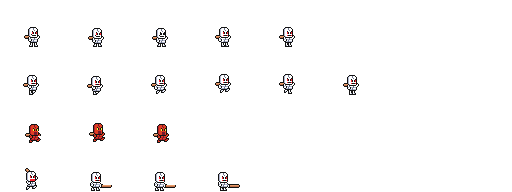
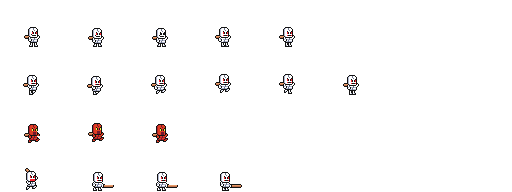
improved player punch charge animation

diff --git a/src/features/Battle/hooks/useBattleSetup.ts b/src/features/Battle/hooks/useBattleSetup.ts
@@ -1,81 +1,93 @@
-import { useEffect } from 'react';
-import useCharacterAnimation, { AnimationStateType } from '../../Battle/hooks/useCharacterAnimation';
+import { ChangeEvent, useCallback, useEffect } from 'react';
+import useCharacterAnimation, {
+	AnimationStateType,
+} from '../../Battle/hooks/useCharacterAnimation';
 import { useBattleEngine } from './useBattleEngine';
 import { defaultBattleSequence } from '../../Battle/battleEngine/scenes/default/defaultSequence';
 import { parsePlayerAvatar } from '../../Battle/utils/parsePlayerAvatar';
+import { Quest } from '../../Subjects/components/Pages/Quest/QuestsPage';
 
 export const useBattleSetup = () => {
-  // Character setup
-  const playerProfileAvatarUrl = 'default/default_1.png';
-  const { playerClass, playerSkin } = parsePlayerAvatar(playerProfileAvatarUrl);
+	// Character setup
+	const playerProfileAvatarUrl = 'default/default_1.png';
+	const { playerClass, playerSkin } = parsePlayerAvatar(
+		playerProfileAvatarUrl
+	);
 
-  // Player animation
-  const {
-    getAnimationParams: getPlayerAnimation,
-    setCurrentAction: setPlayerCurrentAction,
-  } = useCharacterAnimation('player', playerClass, playerSkin);
+	// Player animation
+	const {
+		getAnimationParams: getPlayerAnimation,
+		setCurrentAction: setPlayerCurrentAction,
+	} = useCharacterAnimation('player', playerClass, playerSkin);
 
-  // Enemy animation
-  const {
-    getAnimationParams: getEnemyAnimation,
-    setCurrentAction: setEnemyCurrentAction,
-  } = useCharacterAnimation('orc');
+	// Enemy animation
+	const {
+		getAnimationParams: getEnemyAnimation,
+		setCurrentAction: setEnemyCurrentAction,
+	} = useCharacterAnimation('skeleton');
 
-  // Battle engine
-  const {
-    startBattle,
-    enemyPosX,
-    enemyLoop,
-    enemyZ,
-    playerPosX,
-    playerLoop,
-    playerZ,
-    setEnemyActionRef,
-    setPlayerActionRef,
-    queueCustomScene,
-    customSceneActiveRef,
-    setLoop,
-  } = useBattleEngine(defaultBattleSequence);
+	// Battle engine
+	const {
+		startBattle,
+		enemyPosX,
+		enemyLoop,
+		enemyZ,
+		playerPosX,
+		playerLoop,
+		playerZ,
+		setEnemyActionRef,
+		setPlayerActionRef,
+		queueCustomScene,
+		customSceneActiveRef,
+		setLoop,
+	} = useBattleEngine(defaultBattleSequence);
 
-  // Initialize battle
-  useEffect(() => {
-    // Connect action refs
-    setPlayerActionRef.current = (action: AnimationStateType) =>
-      setPlayerCurrentAction(action);
-    setEnemyActionRef.current = (action: AnimationStateType) =>
-      setEnemyCurrentAction(action);
-    
-    // Initialize and start
-    setLoop(true);
-    startBattle();
-  }, []);
+	// Initialize battle
+	useEffect(() => {
+		// Connect action refs
+		setPlayerActionRef.current = (action: AnimationStateType) =>
+			setPlayerCurrentAction(action);
+		setEnemyActionRef.current = (action: AnimationStateType) =>
+			setEnemyCurrentAction(action);
 
-  // Organize props for components
-  const arenaProps = {
-    playerZ,
-    playerLoop,
-    playerPosX,
-    enemyZ,
-    enemyLoop,
-    enemyPosX,
-    getPlayerAnimation,
-    getEnemyAnimation,
-    customSceneActiveRef,
-  };
+		// Initialize and start
+		setLoop(true);
+		startBattle();
+	}, []);
 
-  const questListProps = {
-    queueCustomScene,
-    customSceneActive: !!customSceneActiveRef.current,
-  };
 
-  const battleProps = {
-    queueCustomScene,
-    startBattle,
-  };
+    const handleCheckboxChangeOnParent = useCallback((e: ChangeEvent<HTMLInputElement>, quest: Quest) => {
+		console.log("HANDLED IN PARENT", e.type, ": ", quest.description);
+	}, [])
 
-  return {
-    arenaProps,
-    questListProps,
-    battleProps,
-  };
+
+	// Organize props for components
+	const arenaProps = {
+		playerZ,
+		playerLoop,
+		playerPosX,
+		enemyZ,
+		enemyLoop,
+		enemyPosX,
+		getPlayerAnimation,
+		getEnemyAnimation,
+		customSceneActiveRef,
+	};
+
+	const questListProps = {
+		queueCustomScene,
+		customSceneActive: !!customSceneActiveRef.current,
+        onCheckboxChangeOnParent: handleCheckboxChangeOnParent
+	};
+
+	const battleProps = {
+		queueCustomScene,
+		startBattle,
+	};
+
+	return {
+		arenaProps,
+		questListProps,
+		battleProps,
+	};
 };

diff --git a/src/features/Battle/battleEngine/scenes/killEnemy/playerPunchCharge.ts b/src/features/Battle/battleEngine/scenes/killEnemy/playerPunchCharge.ts
@@ -5,34 +5,46 @@ export const playerPunchCharge: BattleStepFn = ({
     next,
     setPlayerAction,
     setPlayerLoop,
-    getPlayerPosX,
     setPlayerPosX,
     adjustZValues
 }) => {
-    setPlayerPosX(0)
-    adjustZValues("player")
-    setPlayerAction('attack_3');
+    // Reset position and adjust z-index
+    setPlayerPosX(0);
+    adjustZValues("player");
+
+    // Start with a charge animation
+    setPlayerAction('celebrate'); // Using a more appropriate animation
     setPlayerLoop(true);
-
     let chargeReached = false;
-    const chargeTargetX = arenaMiddle  + enemyPosOffSetX; // Move LEFT toward enemy
+    const chargeTargetX = arenaMiddle + enemyPosOffSetX; // Target position to reach enemy
 
+    // Change to attack animation after a brief charge period
+    const earlyAttackDelay = setTimeout(() => {
+        setPlayerAction('attack_3');
+        setPlayerLoop(false); // Don't loop the attack animation
+    }, 170);
+
+    // Move player toward enemy
     const walkInterval = setInterval(() => {
-        console.log(getPlayerPosX())
         setPlayerPosX((prev) => {
             if (prev >= chargeTargetX) {
                 chargeReached = true;
                 return chargeTargetX;
             }
-            return prev + 25; 
+            return prev + 10; // Movement speed
         });
 
+        // Proceed to next step when target position is reached
         if (chargeReached) {
-            next()
+            clearInterval(walkInterval);
+            clearTimeout(earlyAttackDelay);
+            next();
         }
-        
-    }
-    , 20);
+    }, 50);
     
-    return () => clearInterval(walkInterval);
-}
+    // Cleanup function
+    return () => {
+        clearInterval(walkInterval);
+        clearTimeout(earlyAttackDelay);
+    };
+};

diff --git a/src/features/Battle/components/SelectedQuestList.tsx b/src/features/Battle/components/SelectedQuestList.tsx
@@ -1,4 +1,4 @@
-import React, { memo, RefObject } from 'react';
+import React, { ChangeEvent, memo, RefObject } from 'react';
 import SelectedQuestCard from '../../Quests/components/SelectedQuestCard';
 import { Quest } from '../../Subjects/components/Pages/Quest/QuestsPage';
 import { BattleStepFn } from '../battleEngine/types';
@@ -39,11 +39,13 @@ const mockSelectedQuests: Quest[] = [
 interface SelectedQuestListProps {
 	queueCustomScene: (battleScene: BattleStepFn[]) => void;
 	customSceneActive: boolean;
+	onCheckboxChangeOnParent?: (e: ChangeEvent<HTMLInputElement>, quest: Quest) => void,
 }
 
 export const SelectedQuestList = ({
 	queueCustomScene,
 	customSceneActive,
+	onCheckboxChangeOnParent,
 }: SelectedQuestListProps) => {
 	return (
 		<>
@@ -53,6 +55,7 @@ export const SelectedQuestList = ({
 					quest={quest}
 					queueCustomScene={queueCustomScene}
 					customSceneActive={customSceneActive}
+					onCheckboxChangeOnParent={onCheckboxChangeOnParent}
 				/>
 			))}
 		</>

diff --git a/src/features/Quests/components/SelectedQuestCard.tsx b/src/features/Quests/components/SelectedQuestCard.tsx
@@ -7,24 +7,28 @@ import {
 	useState,
 	useCallback,
 	useMemo,
+	ChangeEvent,
 } from 'react';
 
 interface SelectedQuestCardProps {
 	quest: Quest;
 	queueCustomScene: (battleScene: BattleStepFn[]) => void;
 	customSceneActive: boolean;
+	onCheckboxChangeOnParent?: (e: ChangeEvent<HTMLInputElement>, quest: Quest) => void
 }
 
 export const SelectedQuestCard = ({
 	quest,
 	queueCustomScene,
 	customSceneActive,
+	onCheckboxChangeOnParent
 }: SelectedQuestCardProps) => {
 	const [isCompleted, setIsCompleted] = useState(false);
 	// Add a state variable to track the customSceneActive value
 
 	const handleCheckboxChange = useCallback(
 		(e: React.ChangeEvent<HTMLInputElement>) => {
+			onCheckboxChangeOnParent?.(e, quest)
 			if (e.target.checked) {
 				if (queueCustomScene) {
 					queueCustomScene(killEnemySequence);

diff --git a/index.html b/index.html
@@ -1,10 +1,10 @@
 <!doctype html>
 <html lang="en">
   <head>
-    <script
+    <!-- <script
       crossOrigin="anonymous"
       src="//unpkg.com/react-scan/dist/auto.global.js"
-    ></script>
+    ></script> -->
     <meta charset="UTF-8" />
     <link rel="icon" type="image/svg+xml" href="/vite.svg" />
     <meta name="viewport" content="width=device-width, initial-scale=1.0" />

diff --git a/src/features/Battle/battleEngine/scenes/killEnemy/killEnemySequence.ts b/src/features/Battle/battleEngine/scenes/killEnemy/killEnemySequence.ts
@@ -11,7 +11,6 @@ import { playerExit } from '../../animationSteps/playerExit';
 export const killEnemySequence: BattleStepFn[] = [
 	placeEnemyMiddle,
 	playerPunchCharge,
-    playerPunch,
 	enemyHurtWeak,
 	playerSwordAttack2,
 	playerSwordAttack1,

diff --git a/src/features/Home/tabs/Battle.tsx b/src/features/Home/tabs/Battle.tsx
@@ -12,6 +12,9 @@ export const Battle = () => {
 		questListProps
 	} = useBattleSetup();
 
+
+	
+
 	
 	useEffect(() => {
 		const handleKeyUp = (e: KeyboardEvent) => {
